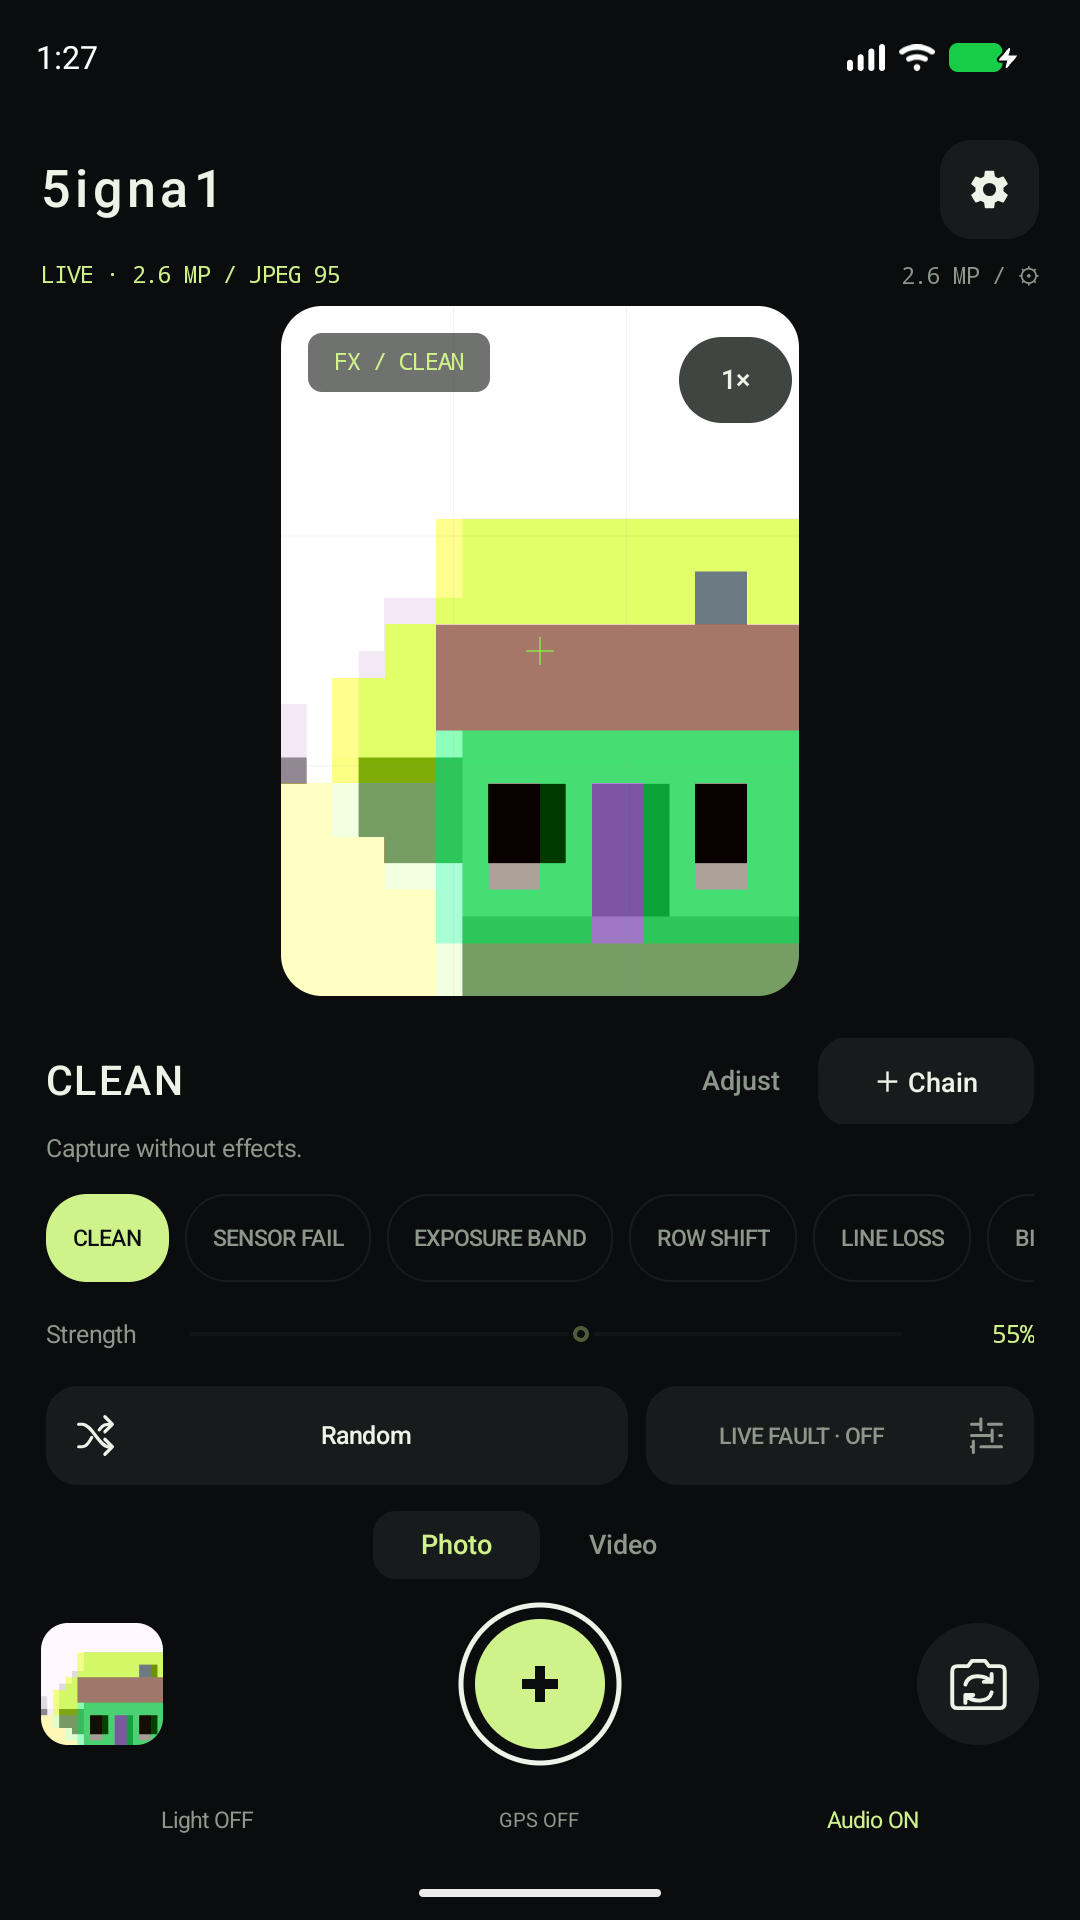
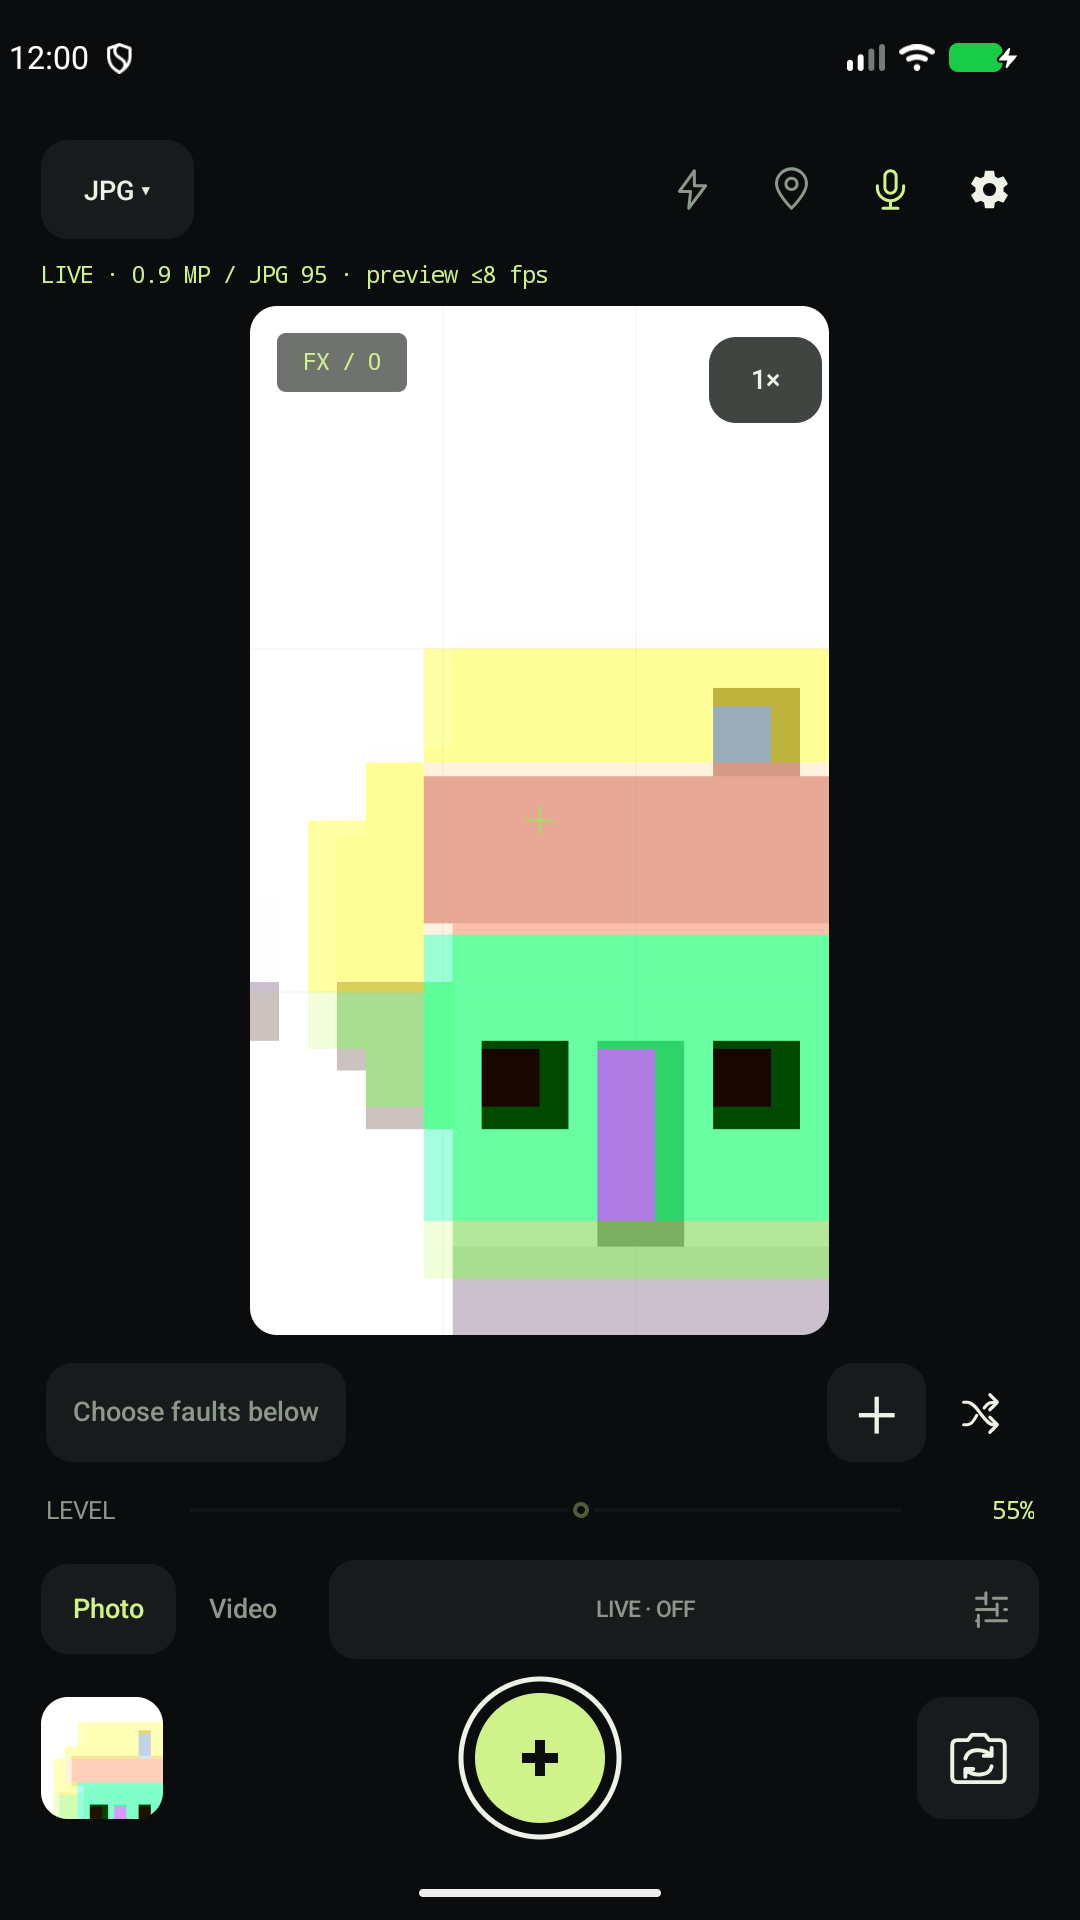
Refresh Play listing and record 1.1.0 Alpha review submission

diff --git a/store/google-play/asset-provenance.md b/store/google-play/asset-provenance.md
@@ -1,10 +1,10 @@
 # 画像の作成記録
 
-更新日: 2026-09-08
+更新日: 2026-09-09
 
 - `images/icon.png`: 所有者の既存ベクターロゴから512×512 RGBA PNGへ出力。アプリのadaptive iconと同じ配色・形状。
 - `images/featureGraphic.png`: 2026-09-07に組み込みImageGenで新規生成・編集し、1024×500 RGB PNGへ出力。元画像は `source/feature-graphic.png`。撮影結果ではなく広告用アート。
-- `images/phoneScreenshots`: 2026-09-08のfdroidDebug 1.0.0をAndroid Emulator API 37、カメラ `emulated`、1080×1920で実行。日英それぞれの実UIをADBで取得。01 CLEAN、02 ROW SHIFT、03 3段チェーン、04 調整。画像合成・UIの描き足しなし。
+- `images/phoneScreenshots`: 2026-09-09のfdroidDebug 1.1.0をAndroid Emulator API 37、カメラ `emulated`、1080×1920で実行。日英それぞれの実UIをADBで取得。01 CLEAN、02 ROW ERROR、03 3段チェーン、04 調整。画像合成・UIの描き足しなし。
 - 撮影用テストシーンはAOSP `Scene.cpp`（Copyright 2012 AOSP、Apache-2.0）の生成パターン。[素材監査](../../docs/audit/ASSETS.md)を参照。
 - 旧Toren1BD室内スクリーンショットは、この公開用リポジトリのファイル・Git履歴に取り込んでいません。
 
@@ -13,3 +13,7 @@
 Tool: built-in image_gen / edit（前版の紹介画像を編集対象として使用）。2026-09-07、サンセリフと余白を中心に再構成。
 
 Use case: style-transfer. Asset type: Google Play feature graphic for 5igna1, wide 1024x500 composition. Input image is the edit target. Redesign it to feel lean, minimal and contemporary. Replace the large serif wordmark with crisp neutral sans-serif typography, medium weight, precise spacing, no serifs at all. Exact text: "5igna1" (digit five, lowercase i, g, n, a, digit one). Retain the small secondary text "GLITCH CAMERA" in a restrained sans-serif. Preserve the near-black and pale acid lime brand palette and the idea of imaging signal corruption, but simplify the elaborate glass prism to a single narrow abstract optical plane on the right with just a few horizontal displaced cyan/lime pixels. Plenty of calm negative space; disciplined Swiss editorial alignment. Flat black background, no ornate texture, no extra slogans, no badges, no phone mockup, no gradients behind the type. Keep text and key elements within central 80% safe area. Final opaque landscape artwork. It should look like a concise modern camera instrument brand.
+
+## Play ConsoleでのAI素材申告 — 2026-09-09
+
+作成記録に従い、生成・編集したfeatureGraphic.pngだけをAI生成素材として申告しました。所有者のベクターロゴから作ったicon.pngと、実際のアプリから取得した日英8枚のスクリーンショットにはAI生成ラベルを付けていません。

diff --git a/docs/audit/ASSETS.md b/docs/audit/ASSETS.md
@@ -9,7 +9,7 @@
 | `ic_settings.xml` | Google Material Design Icons 3.0.1のsettings形状をAndroid vectorへ変換・簡略化・配色変更 | Apache-2.0。Googleの帰属と変更をソース・NOTICEへ記載 |
 | 各言語の `images/icon.png` | 上記のロゴベクターから512×512 PNGへ書き出し | 元ロゴと同じ。問題なし |
 | 各言語の `images/featureGraphic.png` と `store/google-play/source/feature-graphic.png` | 2026-09-07に所有者の依頼でImageGen生成。元プロンプトを保存。1024×500への出力版と生成元 | 所有者が持つ権利についてApache-2.0。生成物の利用条件は下記。生成モデル・学習素材のライセンスをアプリへ持ち込むSDK依存はない |
-| 各言語の `images/phoneScreenshots/*.png`（現在の版） | 2026-09-08、Android Emulator API 37、`-camera-back emulated`、1080×1920。現在のfdroidDebug UIを日本語/英語で実行して画面をそのまま取得 | プロジェクトUI＋Apache-2.0のAOSPテストシーン。UI合成・画像の描き足しなし。問題なし |
+| 各言語の `images/phoneScreenshots/*.png`（現在の版） | 2026-09-09、Android Emulator API 37、`-camera-back emulated`、1080×1920。1.1.0のfdroidDebug UIを日本語/英語で実行して画面をそのまま取得 | プロジェクトUI＋Apache-2.0のAOSPテストシーン。UI合成・画像の描き足しなし。問題なし |
 | 外部フォント、音声、写真、テクスチャ、機械学習モデル、presetデータ | アプリの追跡ファイルとAPKを点検。該当なし | 同梱なし。フォントはOS標準を利用 |
 
 ## 現在のスクリーンショット
@@ -33,3 +33,7 @@
 ### Development UI utility icons — 2026-09-08
 
 `ic_flash.xml`, `ic_location.xml`, `ic_mic.xml` and `ic_mic_off.xml` are original vector paths created for this project with Codex, under the project Apache-2.0 license. Input: compact 24-unit outline lightning bolt, location pin and microphone (including a muted variant), 1.6-unit stroke, matching the existing controls. No external source image or icon library was used.
+
+### Play 1.1.0 screenshot refresh — 2026-09-09
+
+Replaced the eight Japanese/English phone screenshots with unedited captures of 1.1.0-debug on the API 37 emulator, using the same AOSP-generated camera pattern and 1080×1920 display. Scenes: CLEAN, ROW ERROR, three-fault chain and its adjustment panel. No private camera imagery or simulated UI is used. The icon and feature graphic are unchanged.

diff --git a/docs/PLAY_1_1_0.md b/docs/PLAY_1_1_0.md
@@ -1,0 +1,25 @@
+# Google Play 1.1.0 closed-test update
+
+Submitted on 2026-09-09 (Japan time). Application: `com.bongorian.signa1`. Version: **1.1.0 / code 9**. App source: `f4c3e0c09cd3e0ba42350bfeb3f229f1c5b2a7cd`.
+
+## Scope and state
+
+The existing **closed-test Alpha** track was updated. Console confirmed 1.0.0 / code 8 already published to testers. Tester groups, country selections, the internal-test track and managed publishing were not changed. Production access is not yet enabled.
+
+The Console accepted submission of five changes: the Alpha release, Japanese description/screenshots, and English description/screenshots. They appeared under **In review**, with the automatic pre-review quick check still running. Checks then feed Google review. **Managed publishing is on:** after approval, a separate Publish changes action is required before testers receive 1.1.0. This record does not claim approval or delivery.
+
+## Artifact validation
+
+- Signed Play AAB built successfully with the existing upload key; its signing certificate matched the submitted 1.0.0 AAB. No keys were regenerated or changed.
[1 lines of base64/hex data omitted]
+- Google Play accepted code 9, version 1.1.0, minimum API 31 and target API 36. No previously supported devices became unsupported.
+- One informational warning requested a deobfuscation file. This build has `minifyEnabled false`, so no R8/ProGuard mapping is produced.
+- Ubuntu and macOS CI passed for the app source. Local tests, lint, both distribution builds and dependency checks also passed; see [Validation](VALIDATION.md).
+
+## Store materials
+
+Japanese/English descriptions reflect 13 causal faults, random chains, ADVANCED, workload recommendations/EXPERT and the mixed photo/video viewer. Each language has four actual 1.1.0 UI screenshots, captured on the API 37 emulator using the AOSP test scene. All eight images were visually checked. Feature artwork alone was declared AI-generated in Console; screenshot pixels were not synthesized or edited.
+
+The existing [Japanese privacy page](https://bongorian.github.io/5igna1-release/) and its English/Chinese editions were updated for optional LIVE inputs, independent workload measurements, DCIM storage and internal media preview. All three live HTML bodies were verified against the bundled policy copies.
+
+Original code-8 artifacts, signing keys and v1.0.0 remain intact. F-Droid submission and GitHub release publication are outside this Play update.

diff --git a/AGENTS.md b/AGENTS.md
@@ -26,3 +26,8 @@
 - The owner reports F-Droid submission awaiting merge and Google Play closed testing awaiting approval. Keep those submitted candidates stable; do not submit replacements as part of routine debugging.
 - Owner authorized merging the completed redesign into main and advancing the version on 2026-09-08. Continue development in /Users/bongorian/Documents/ChatGPT/Apps/5igna1-fault-system; main now prepares 1.1.0 / versionCode 9. Use debug builds (com.bongorian.signa1.debug, 5igna1 DEV) for device testing; keep the release application and its data intact.
 - Before the next store submission, allocate a higher versionCode and an appropriate new versionName; do not reuse published release identity for changed code.
+
+## Owner direction — Play update, 2026-09-09
+
+- The owner explicitly requested applying the current 1.1.0 source to Google Play and reports nine testers currently using 1.0.0. This authorizes a 1.1.0 / code 9 update to the existing closed-test Alpha track and the matching store materials. Preserve its tester group and country settings.
+- Continue preserving the original 1.0.0 artifacts, v1.0.0 tag and signing keys. F-Droid remains on its existing submission; this Play update does not authorize changing that submission or publishing a GitHub release.

diff --git a/docs/LAUNCH_TASKS.md b/docs/LAUNCH_TASKS.md
@@ -52,3 +52,7 @@ Billing products and Sponsors setup are optional future work, not prerequisites 
 ## Publication verification — 2026-09-08
 
 The initial public history has one root commit and no imported parent commits. APK and checksum downloads were fetched without authentication and matched the local files. The tagged app source was readable publicly; the previous private repository returned 404 without authentication. [Initial Ubuntu/macOS CI](https://github.com/Bongorian/5igna1-release/actions/runs/34147880216) passed both jobs. Obtainium’s on-device import/install remains a follow-up check.
+
+## Play closed-test update — 2026-09-09
+
+Console confirmed code 8 / 1.0.0 published to Alpha. Code 9 / 1.1.0, Japanese/English descriptions and eight new UI screenshots were submitted to review on the same track. Tester and country configuration were retained. The Console placed the five changes under In review, with pre-review quick checks still running. Managed publishing remains enabled; publish after approval to deliver the update. [Submission record](PLAY_1_1_0.md).

diff --git a/README.ja.md b/README.ja.md
@@ -61,7 +61,7 @@ https://github.com/Bongorian/5igna1-release
 
 ### Google Play
 
-2026-09-08時点でクローズドテストの審査待ちです（開発者報告）。正式公開後にストアリンクを掲載します。
+1.0.0のクローズドテストを実施中です。2026-09-09に同じAlphaトラックへ1.1.0の更新を審査送信しました。正式公開後にストアリンクを掲載します。
 
 ### F-Droid
 

diff --git a/README.md b/README.md
@@ -67,7 +67,7 @@ https://github.com/Bongorian/5igna1-release
 
 ### Google Play
 
-The owner reports closed-test review pending as of 2026-09-08. The official store link will appear here after publication.
+The closed test is active with 1.0.0. The 1.1.0 update was submitted to the same Alpha track on 2026-09-09. The official store link will appear here after publication.
 
 ### F-Droid
 
